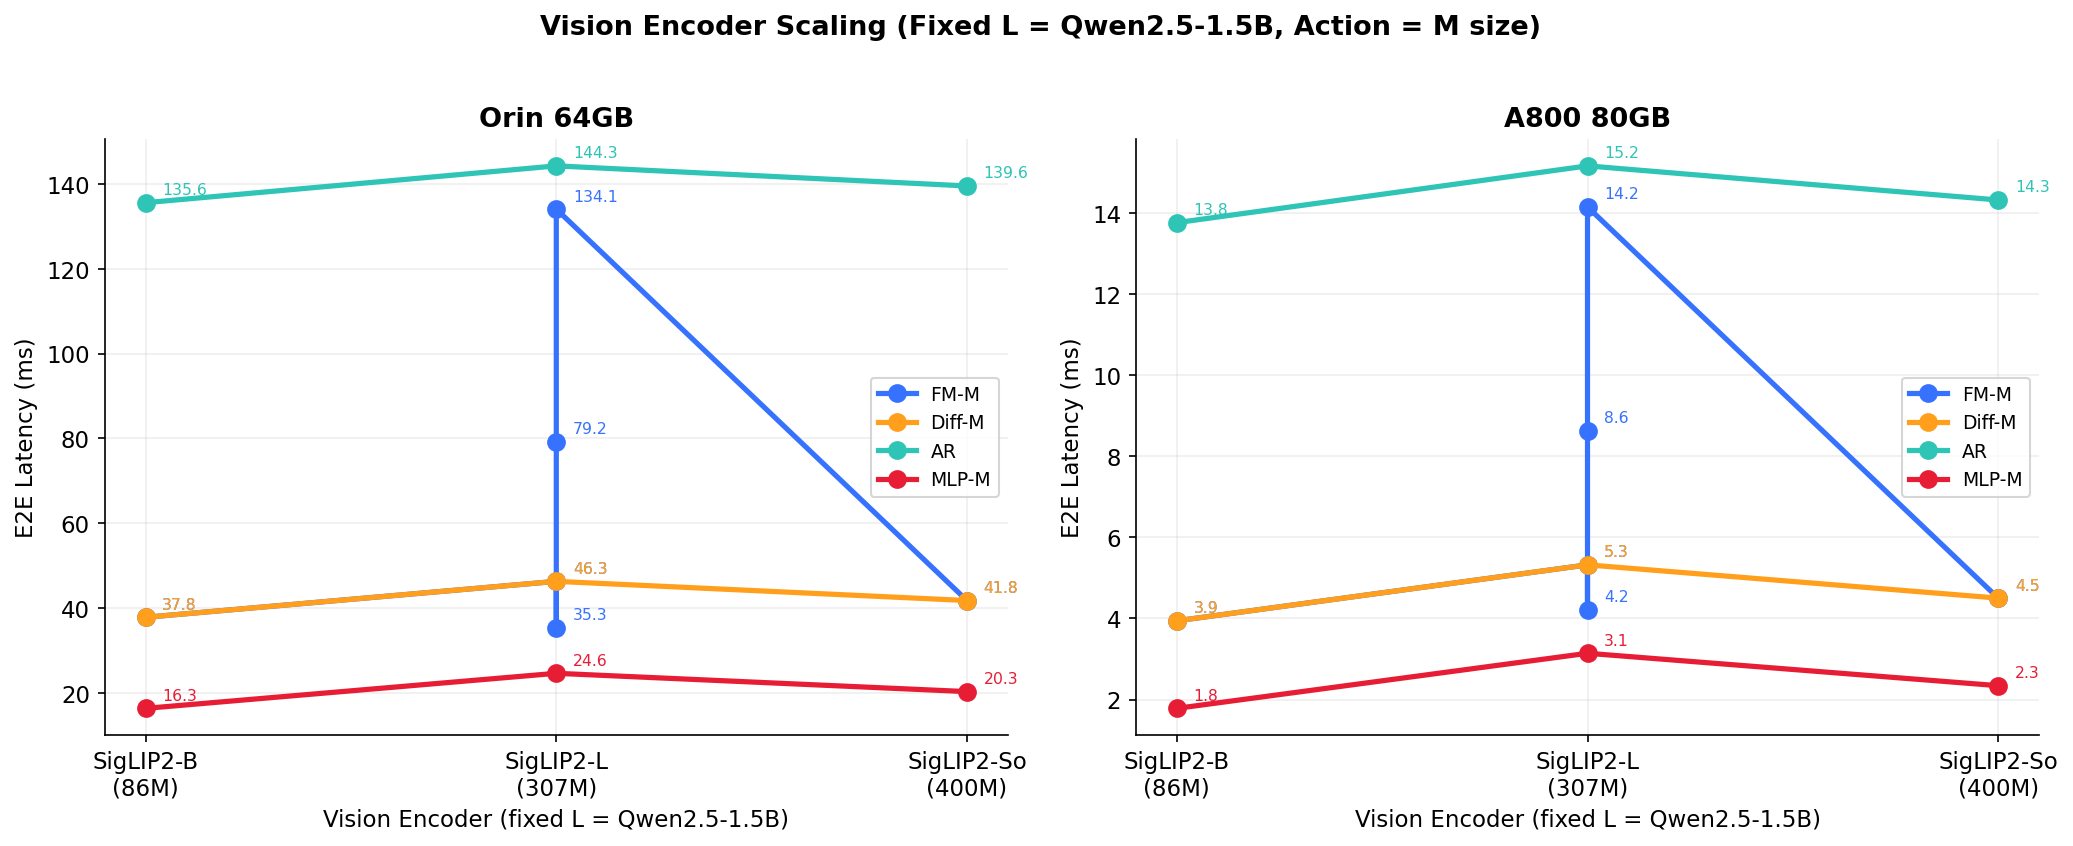
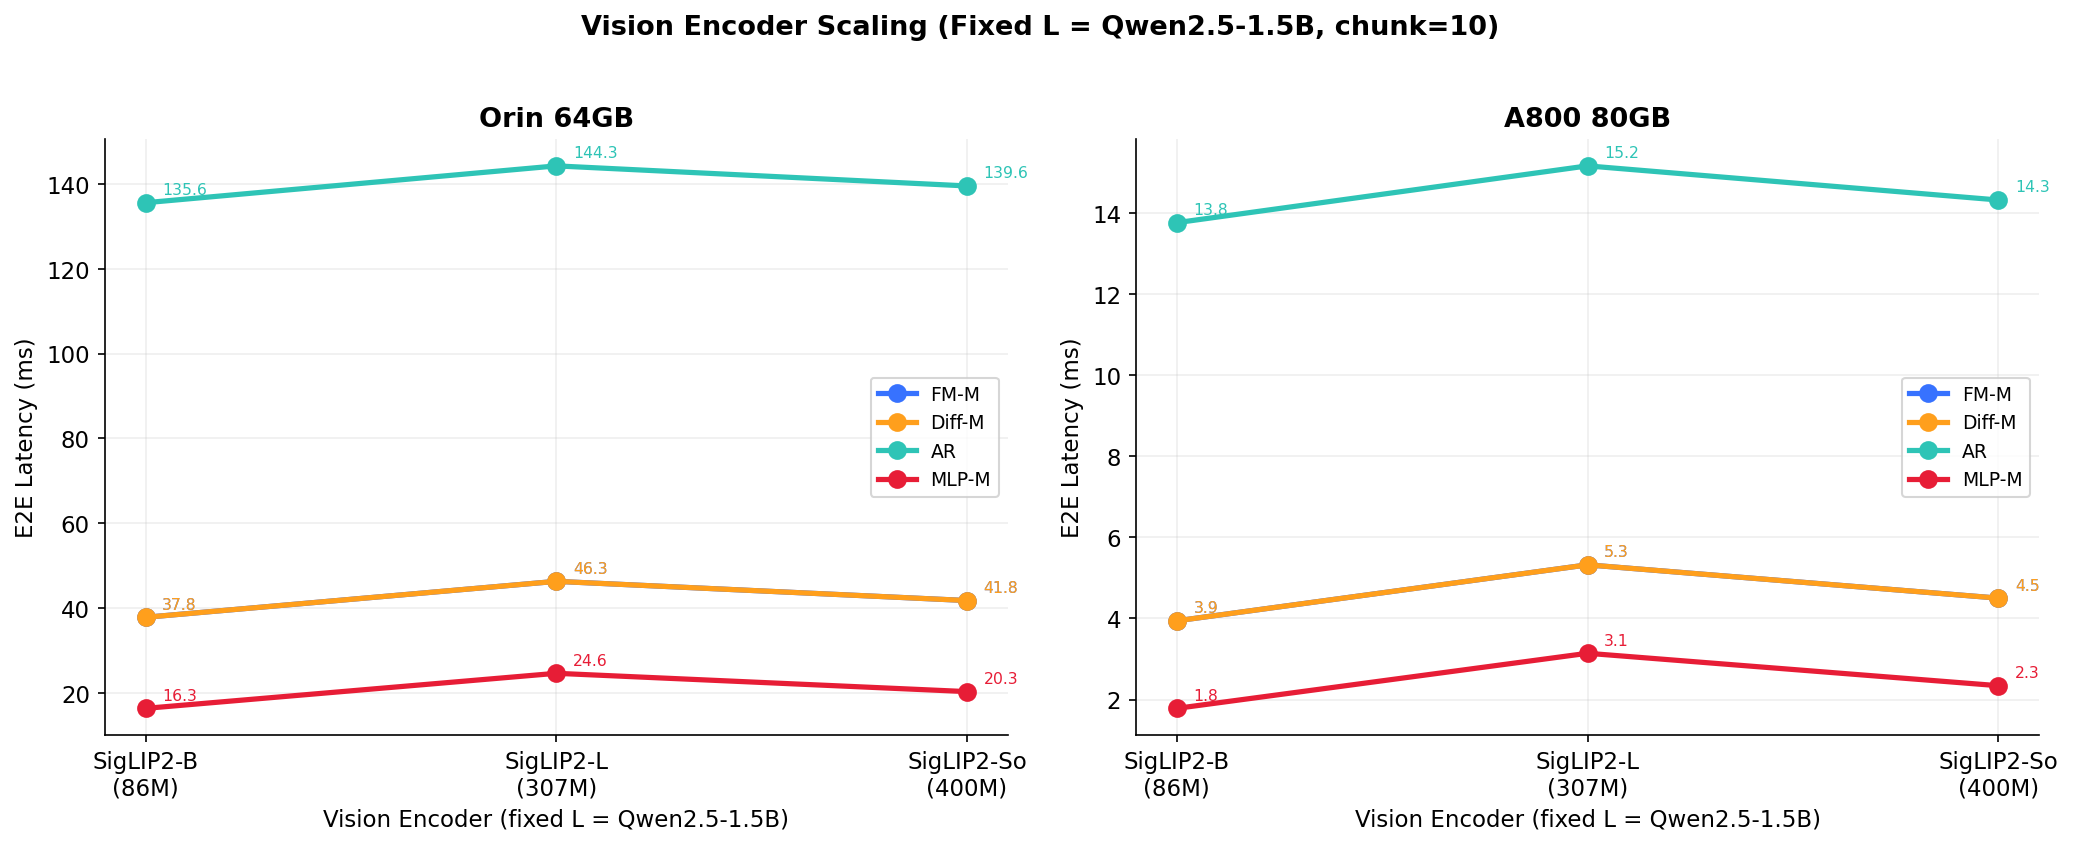
fix: filter sweep configs from scaling plots to avoid duplicate points
- Add filter_baseline() to exclude Group G/H/I/K/L sweep configs
  (chunk_size and denoising_steps overrides) from scaling comparison
- Fig 4/5 now show exactly 3 points per line (one per V or L variant)
- Qwen2.5-0.5B data now correctly appears in L-Scaling plot

diff --git a/scripts/plot/plot_comparison.py b/scripts/plot/plot_comparison.py
@@ -58,6 +58,16 @@ def load(csv_path):
     return pd.read_csv(csv_path)
 
 
+def filter_baseline(df):
+    """Keep only baseline configs: default chunk_size=10, default denoising_steps.
+
+    Removes Group G/H/I/K/L sweep configs that override chunk or steps.
+    Only keeps groups A-F, J, M (baseline defaults) to avoid duplicates.
+    """
+    baseline_groups = ["A", "B", "C", "D", "E", "F", "J", "M"]
+    return df[df["group"].isin(baseline_groups)]
+
+
 # ================================================================
 # Fig 1: Fix VLM-5, compare 4 action architectures (M size)
 # ================================================================
@@ -67,11 +77,9 @@ def fig1_action_type_comparison(df, output_dir):
     action_labels = ["Flow Matching\n(200M)", "Diffusion\n(200M)", "Autoregressive\n(shared LLM)", "MLP\n(30M)"]
     systems = ["Jetson_AGX_Orin_64GB", "A800_80GB"]
 
-    # Filter to VLM-5 with default chunk/steps
-    mask = (df["vision_key"] == "V-M") & (df["language_key"] == "L-M") & \
-           (df["action_key"].isin(action_keys)) & (df["chunk_size"] == 10) & \
-           (df["denoising_steps"].isin([1, 10]))
-    sub = df[mask]
+    base = filter_baseline(df)
+    sub = base[(base["vision_key"] == "V-M") & (base["language_key"] == "L-M") &
+               (base["action_key"].isin(action_keys))]
 
     fig, axes = plt.subplots(1, 2, figsize=(14, 5.5), sharey=False)
 
@@ -129,8 +137,8 @@ def fig2_action_size_scaling(df, output_dir):
         ("MLP", ["MLP-S", "MLP-M", "MLP-L"], ["S\n(10M)", "M\n(30M)", "L\n(80M)"]),
     ]
 
-    mask = (df["vision_key"] == "V-M") & (df["language_key"] == "L-M")
-    sub = df[mask]
+    base = filter_baseline(df)
+    sub = base[(base["vision_key"] == "V-M") & (base["language_key"] == "L-M")]
 
     fig, axes = plt.subplots(2, 3, figsize=(16, 9), sharey="row")
 
@@ -245,16 +253,11 @@ def fig4_v_scaling(df, output_dir):
     systems = ["Jetson_AGX_Orin_64GB", "A800_80GB"]
     # Group B (V-Scaling x Diff/AR/MLP) + Group A row 2 (V-M x FM-M with L=1.5B)
     # We need FM-M with L=1.5B for all 3 V sizes → configs 2,5,8 from Group A
-    action_map = {
-        "FM-M": "flow_matching",
-        "Diff-M": "diffusion",
-        "AR": "autoregressive",
-        "MLP-M": "mlp",
-    }
+    action_items = [("FM-M", "FM"), ("Diff-M", "Diff"), ("AR", "AR"), ("MLP-M", "MLP")]
 
-    sub = df[(df["language_key"] == "L-M") &
-             (df["action_key"].isin(action_map.keys())) &
-             (df["chunk_size"] == 10)]
+    base = filter_baseline(df)
+    sub = base[(base["language_key"] == "L-M") &
+               (base["action_key"].isin([a[0] for a in action_items]))]
 
     v_order = {"V-S": 0, "V-M": 1, "V-L": 2}
     v_labels = ["SigLIP2-B\n(86M)", "SigLIP2-L\n(307M)", "SigLIP2-So\n(400M)"]
@@ -264,7 +267,7 @@ def fig4_v_scaling(df, output_dir):
     for ax, hw in zip(axes, systems):
         hw_data = sub[sub["hardware"] == hw]
 
-        for ak, color_key in [("FM-M", "FM"), ("Diff-M", "Diff"), ("AR", "AR"), ("MLP-M", "MLP")]:
+        for ak, color_key in action_items:
             a_data = hw_data[hw_data["action_key"] == ak].copy()
             a_data["_vx"] = a_data["vision_key"].map(v_order)
             a_data = a_data.sort_values("_vx")
@@ -275,7 +278,6 @@ def fig4_v_scaling(df, output_dir):
                     marker="o", color=ACTION_COLORS[color_key],
                     label=ak, linewidth=2.5, markersize=8)
 
-            # Annotate each point
             for _, row in a_data.iterrows():
                 ax.annotate(f"{row['e2e_time_ms']:.1f}",
                             (row["_vx"], row["e2e_time_ms"]),
@@ -290,7 +292,7 @@ def fig4_v_scaling(df, output_dir):
         ax.legend(fontsize=9)
         ax.grid(alpha=0.2)
 
-    fig.suptitle("Vision Encoder Scaling (Fixed L = Qwen2.5-1.5B, Action = M size)",
+    fig.suptitle("Vision Encoder Scaling (Fixed L = Qwen2.5-1.5B, chunk=10)",
                  fontsize=13, fontweight="bold", y=1.02)
     plt.tight_layout()
     save(fig, output_dir, "fig4_v_scaling")
@@ -302,12 +304,11 @@ def fig4_v_scaling(df, output_dir):
 def fig5_l_scaling(df, output_dir):
     """Line plot: L-Scaling per action type, both platforms."""
     systems = ["Jetson_AGX_Orin_64GB", "A800_80GB"]
-    action_map = {"FM-M": "FM", "Diff-M": "Diff", "AR": "AR", "MLP-M": "MLP"}
+    action_items = [("FM-M", "FM"), ("Diff-M", "Diff"), ("AR", "AR"), ("MLP-M", "MLP")]
 
-    # Group A row 2 (FM-M) + Group C (Diff/AR/MLP with V-M) + Group B middle (V-M)
-    sub = df[(df["vision_key"] == "V-M") &
-             (df["action_key"].isin(action_map.keys())) &
-             (df["chunk_size"] == 10)]
+    base = filter_baseline(df)
+    sub = base[(base["vision_key"] == "V-M") &
+               (base["action_key"].isin([a[0] for a in action_items]))]
 
     l_order = {"L-S": 0, "L-M": 1, "L-L": 2}
     l_labels = ["Qwen2.5-0.5B", "Qwen2.5-1.5B", "Qwen2.5-3B"]
@@ -317,16 +318,17 @@ def fig5_l_scaling(df, output_dir):
     for ax, hw in zip(axes, systems):
         hw_data = sub[sub["hardware"] == hw]
 
-        for ak, color_key in action_map.items():
+        for ak, color_key in action_items:
             a_data = hw_data[hw_data["action_key"] == ak].copy()
             a_data["_lx"] = a_data["language_key"].map(l_order)
             a_data = a_data.sort_values("_lx")
             if a_data.empty:
                 continue
 
+            n_points = len(a_data)
             ax.plot(a_data["_lx"], a_data["e2e_time_ms"],
                     marker="s", color=ACTION_COLORS[color_key],
-                    label=ak, linewidth=2.5, markersize=8)
+                    label=f"{ak} ({n_points} pts)", linewidth=2.5, markersize=8)
 
             for _, row in a_data.iterrows():
                 ax.annotate(f"{row['e2e_time_ms']:.1f}",
@@ -342,7 +344,7 @@ def fig5_l_scaling(df, output_dir):
         ax.legend(fontsize=9)
         ax.grid(alpha=0.2)
 
-    fig.suptitle("Language Backbone Scaling (Fixed V = SigLIP2-L, Action = M size)",
+    fig.suptitle("Language Backbone Scaling (Fixed V = SigLIP2-L, chunk=10)",
                  fontsize=13, fontweight="bold", y=1.02)
     plt.tight_layout()
     save(fig, output_dir, "fig5_l_scaling")
